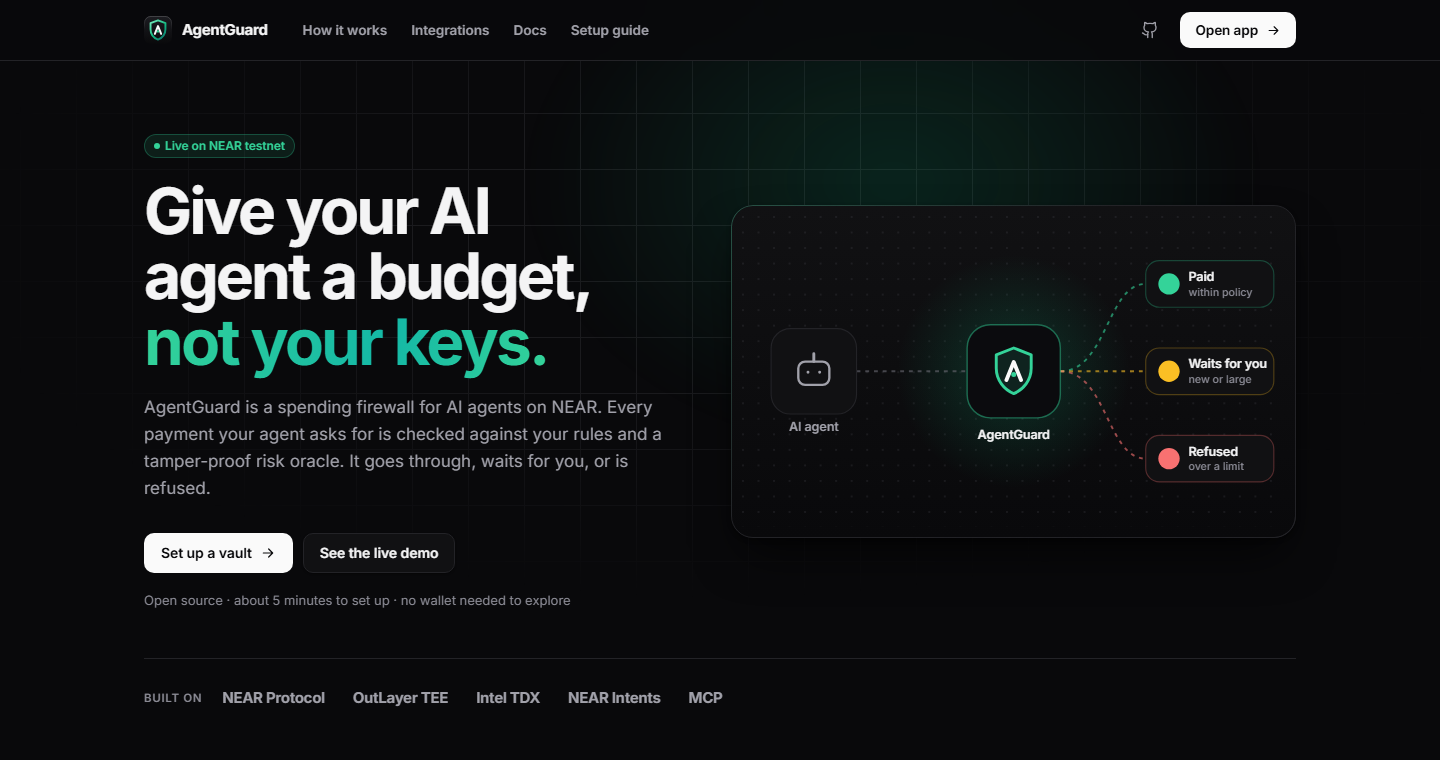
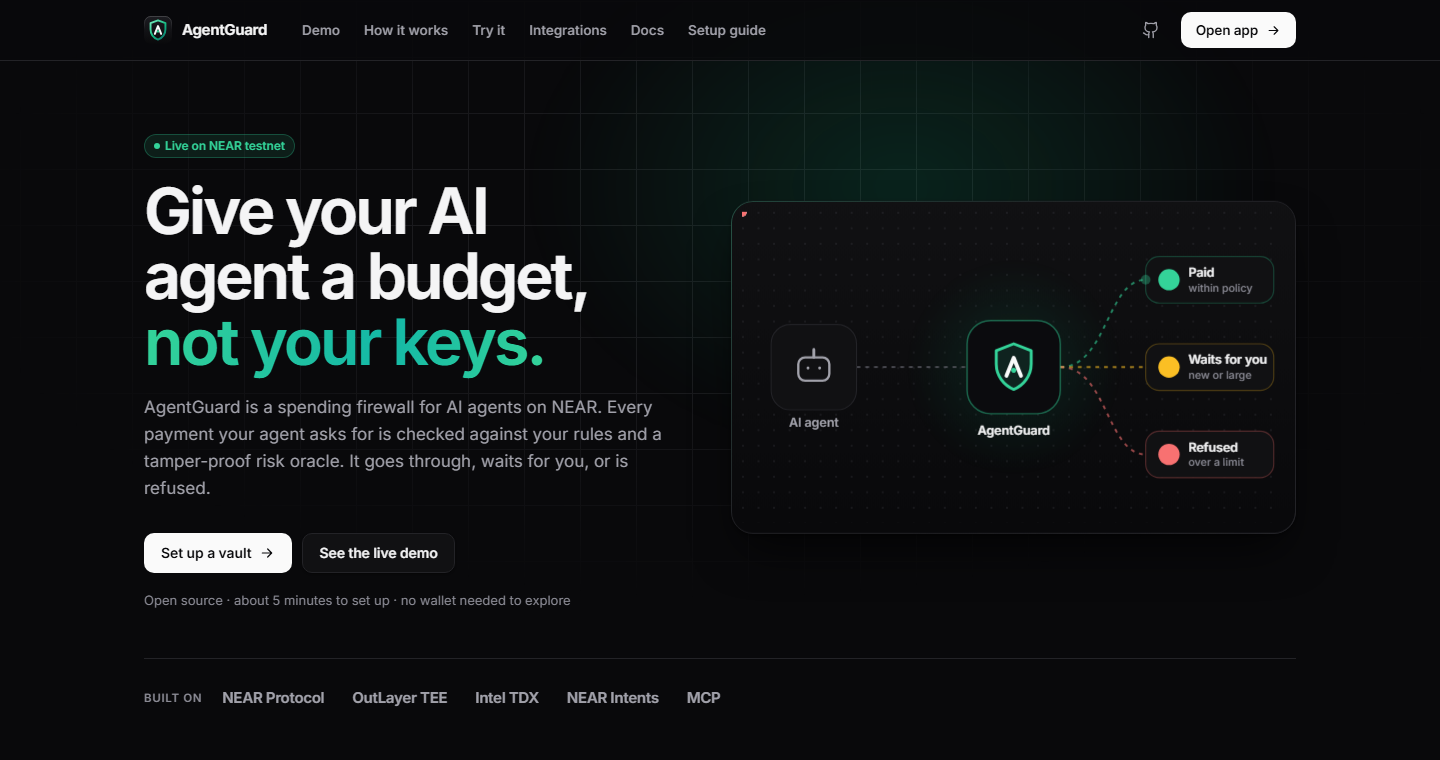
Add a security policy, a daily read-only live check, and a current landing screenshot

diff --git a/SECURITY.md b/SECURITY.md
@@ -1,0 +1,53 @@
+# Security policy
+
+AgentGuard is a spending firewall for AI agents. This repository holds a NEAR contract, a risk
+oracle, an MCP server and a web app. It runs on **NEAR testnet only**: there is no mainnet
+deployment and no real funds, so a testnet exploit costs nothing but is still worth reporting.
+
+## Reporting a vulnerability
+
+- **Preferred:** GitHub's private vulnerability reporting — the **Security** tab of this
+  repository, then **Report a vulnerability**. It keeps the report private until a fix lands.
+- **Fallback:** email `codemasterx@wearehackerone.com` with the steps to reproduce, the affected
+  component and the impact you believe it has.
+
+Please do not open a public issue for an exploitable bug. A first reply usually takes a few days.
+
+## In scope
+
+| Component | What matters |
+|---|---|
+| `contract/src/` | Policy enforcement, verdict checking (`attestation.rs`), vault funds, nonce handling, refunds, pause and withdraw |
+| `oracle/src/` | Injection and look-alike detection, cross-chain quote binding, the optional LLM pass, the TEE gateway |
+| `mcp/src/` | The four tools an agent calls, and what an agent can reach through them |
+| `dashboard/src/` | XSS, unsafe links, anything that could make an owner approve the wrong payment |
+| `tee-oracle/src/` | The decisions and signing path that run inside the enclave |
+
+The most useful findings are ones that break a claim the README makes: a verdict that can be
+forged, replayed, used after expiry or swapped onto another request; a policy limit that can be
+crossed; a payment that reaches a recipient it should not; an injection the oracle scores as safe.
+
+## Out of scope
+
+- **Testnet funds and the demo vault.** Anyone may spend or approve what sits in vault 6.
+- **Published test material.** The dev signer seed in the README example, the public 1Click manager
+  key and the signature in `tee-oracle/testdata/` are deliberately public; see
+  `tee-oracle/testdata/README.md`.
+- **Third-party services** — OutLayer, NEAR RPC providers, FastNEAR's indexer — report those to
+  their operators.
+- **Rate limits, outages and the TEE binary's build provenance** in themselves; the documented
+  hosting caveat is in `docs/TESTNET.md`.
+
+## What is already tested
+
+`103` tests across three suites, run in CI on every push: 47 for the contract (including forged,
+replayed, expired and swapped verdicts, and the exact policy boundaries), 21 for the TEE
+component, 35 for the SDK and oracle. `docs/THREAT_MODEL.md` lists 28 attacker scenarios, each
+mapped to a defence and a test, and states the limitations we know about. A daily read-only job
+checks that the deployed contract still matches the published code hash.
+
+## Safe harbour
+
+Research carried out in good faith on testnet, without attacking third-party infrastructure,
+exfiltrating data or degrading the demo for other people, will not be met with legal action. Tell
+us before you publish, and we will credit you if you want.
